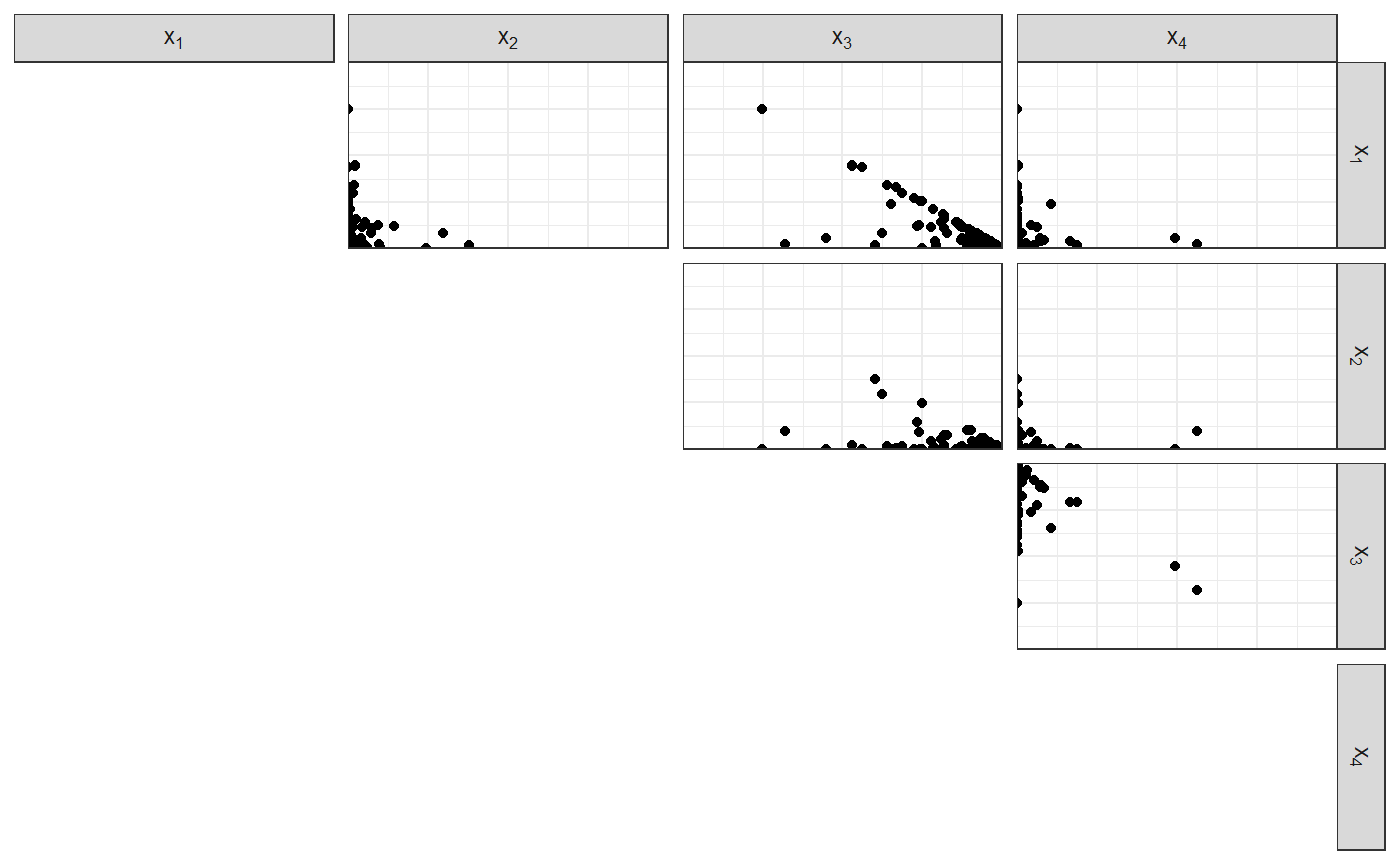
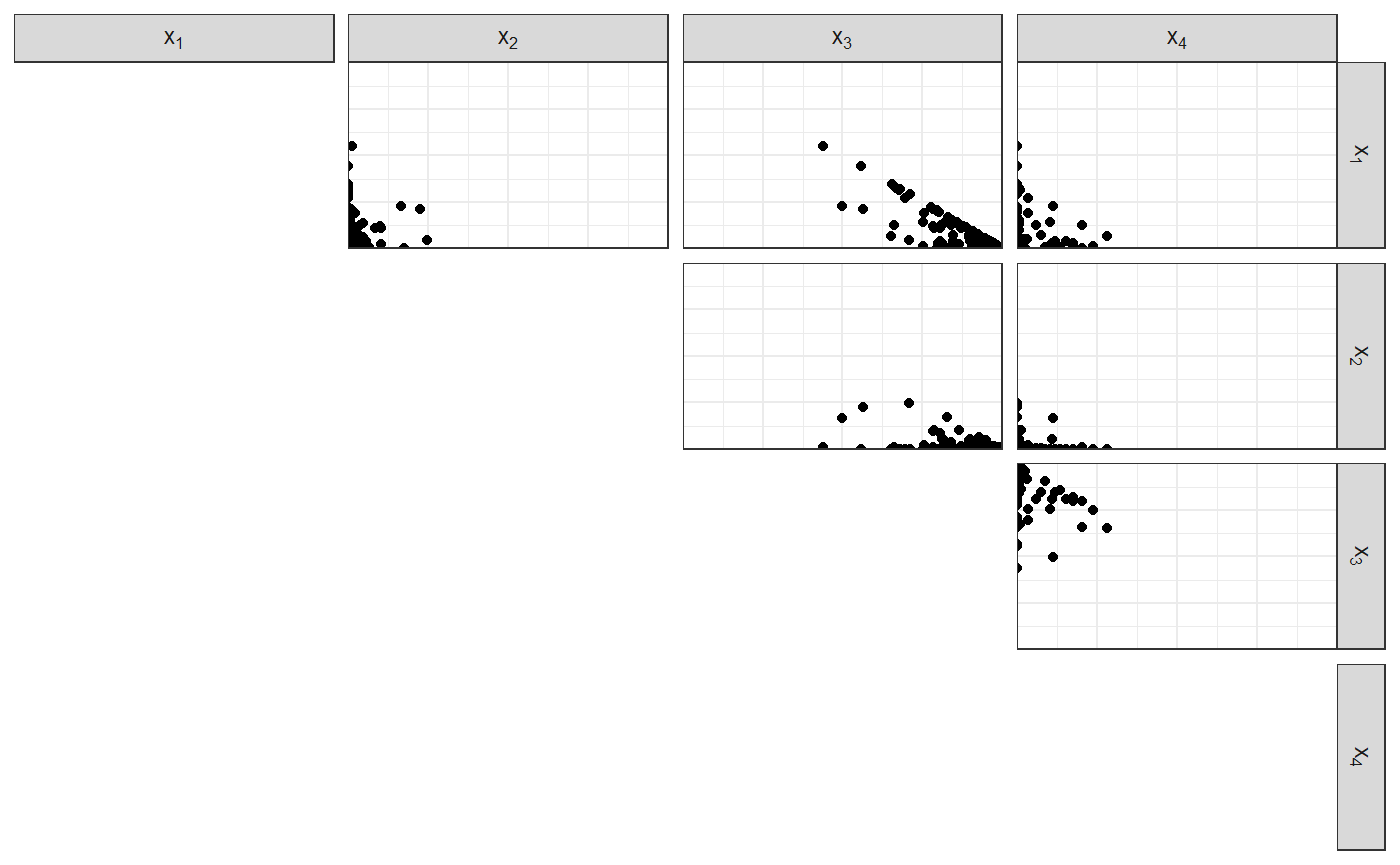
Renamed hyperparameters, fixed LaTeX errors, fixed CRAN checks

diff --git a/docs/articles/dirichletdirichlet-study.html b/docs/articles/dirichletdirichlet-study.html
@@ -137,24 +137,24 @@ This vignette describes the Dirichlet-Dirichlet model.</p>
 <p>Notice that the hyperparameter is sampled, too (but it can be fixed).</p>
 <div class="sourceCode" id="cb2"><pre class="sourceCode r"><code class="sourceCode r"><a class="sourceLine" id="cb2-1" title="1"><span class="kw"><a href="https://www.rdocumentation.org/packages/utils/topics/head">head</a></span>(list_pop<span class="op">$</span>df_pop)</a>
 <a class="sourceLine" id="cb2-2" title="2"><span class="co">#&gt; # A tibble: 6 x 5</span></a>
-<a class="sourceLine" id="cb2-3" title="3"><span class="co">#&gt;   source   `x[1]` `x[2]` `x[3]` `x[4]`</span></a>
-<a class="sourceLine" id="cb2-4" title="4"><span class="co">#&gt;    &lt;int&gt;    &lt;dbl&gt;  &lt;dbl&gt;  &lt;dbl&gt;  &lt;dbl&gt;</span></a>
-<a class="sourceLine" id="cb2-5" title="5"><span class="co">#&gt; 1      1 1.31e- 6      0      0  1.000</span></a>
-<a class="sourceLine" id="cb2-6" title="6"><span class="co">#&gt; 2      1 8.52e-63      0      0  1    </span></a>
-<a class="sourceLine" id="cb2-7" title="7"><span class="co">#&gt; 3      1 1.01e-12      0      0  1.000</span></a>
-<a class="sourceLine" id="cb2-8" title="8"><span class="co">#&gt; 4      1 3.33e- 9      0      0  1.000</span></a>
-<a class="sourceLine" id="cb2-9" title="9"><span class="co">#&gt; 5      1 5.07e-31      0      0  1    </span></a>
-<a class="sourceLine" id="cb2-10" title="10"><span class="co">#&gt; 6      1 3.87e- 7      0      0  1.000</span></a>
+<a class="sourceLine" id="cb2-3" title="3"><span class="co">#&gt;   source    `x[1]` `x[2]`        `x[3]` `x[4]`</span></a>
+<a class="sourceLine" id="cb2-4" title="4"><span class="co">#&gt;    &lt;int&gt;     &lt;dbl&gt;  &lt;dbl&gt;         &lt;dbl&gt;  &lt;dbl&gt;</span></a>
+<a class="sourceLine" id="cb2-5" title="5"><span class="co">#&gt; 1      1 0.538          0 0.000000561   0.462 </span></a>
+<a class="sourceLine" id="cb2-6" title="6"><span class="co">#&gt; 2      1 0.987          0 0.0000502     0.0128</span></a>
+<a class="sourceLine" id="cb2-7" title="7"><span class="co">#&gt; 3      1 0.779          0 0.00171       0.220 </span></a>
+<a class="sourceLine" id="cb2-8" title="8"><span class="co">#&gt; 4      1 0.910          0 0.00000000161 0.0895</span></a>
+<a class="sourceLine" id="cb2-9" title="9"><span class="co">#&gt; 5      1 0.926          0 0.00000552    0.0737</span></a>
+<a class="sourceLine" id="cb2-10" title="10"><span class="co">#&gt; 6      1 0.0000160      0 0.00000000138 1.000</span></a>
 <a class="sourceLine" id="cb2-11" title="11"><span class="kw"><a href="https://www.rdocumentation.org/packages/utils/topics/head">head</a></span>(list_pop<span class="op">$</span>df_sources)</a>
 <a class="sourceLine" id="cb2-12" title="12"><span class="co">#&gt; # A tibble: 6 x 5</span></a>
-<a class="sourceLine" id="cb2-13" title="13"><span class="co">#&gt;   source `theta[1]`  `theta[2]` `theta[3]` `theta[4]`</span></a>
-<a class="sourceLine" id="cb2-14" title="14"><span class="co">#&gt;    &lt;int&gt;      &lt;dbl&gt;       &lt;dbl&gt;      &lt;dbl&gt;      &lt;dbl&gt;</span></a>
-<a class="sourceLine" id="cb2-15" title="15"><span class="co">#&gt; 1      1     0.0203 0.000000318   4.49e- 5   0.980   </span></a>
-<a class="sourceLine" id="cb2-16" title="16"><span class="co">#&gt; 2      2     0.125  0.00000165    4.68e- 3   0.871   </span></a>
-<a class="sourceLine" id="cb2-17" title="17"><span class="co">#&gt; 3      3     0.235  0.764         3.48e-10   0.000765</span></a>
-<a class="sourceLine" id="cb2-18" title="18"><span class="co">#&gt; 4      4     0.0740 0.874         6.20e- 7   0.0517  </span></a>
-<a class="sourceLine" id="cb2-19" title="19"><span class="co">#&gt; 5      5     0.0446 0.0101        7.39e- 4   0.945   </span></a>
-<a class="sourceLine" id="cb2-20" title="20"><span class="co">#&gt; 6      6     0.163  0.00176       3.48e- 2   0.801</span></a></code></pre></div>
+<a class="sourceLine" id="cb2-13" title="13"><span class="co">#&gt;   source `theta[1]` `theta[2]` `theta[3]` `theta[4]`</span></a>
+<a class="sourceLine" id="cb2-14" title="14"><span class="co">#&gt;    &lt;int&gt;      &lt;dbl&gt;      &lt;dbl&gt;      &lt;dbl&gt;      &lt;dbl&gt;</span></a>
+<a class="sourceLine" id="cb2-15" title="15"><span class="co">#&gt; 1      1 0.508        1.65e- 5   1.03e- 1      0.389</span></a>
+<a class="sourceLine" id="cb2-16" title="16"><span class="co">#&gt; 2      2 0.00000394   6.36e- 6   5.45e-14      1.000</span></a>
+<a class="sourceLine" id="cb2-17" title="17"><span class="co">#&gt; 3      3 0.0000193    3.82e- 8   5.22e- 3      0.995</span></a>
+<a class="sourceLine" id="cb2-18" title="18"><span class="co">#&gt; 4      4 0.0000152    6.26e- 1   5.64e- 5      0.374</span></a>
+<a class="sourceLine" id="cb2-19" title="19"><span class="co">#&gt; 5      5 0.210        6.38e- 8   3.87e-15      0.790</span></a>
+<a class="sourceLine" id="cb2-20" title="20"><span class="co">#&gt; 6      6 0.0202       1.00e-15   8.84e- 9      0.980</span></a></code></pre></div>
 </div>
 <div id="hyperparameters" class="section level2">
 <h2 class="hasAnchor">
@@ -181,33 +181,33 @@ This is generically done using <code>make_dataset_splits</code>:</p>
 <a class="sourceLine" id="cb4-8" title="8"><span class="co">#&gt; [5] "df_questioned"  "df_background"</span></a></code></pre></div>
 <div class="sourceCode" id="cb5"><pre class="sourceCode r"><code class="sourceCode r"><a class="sourceLine" id="cb5-1" title="1"><span class="kw"><a href="https://www.rdocumentation.org/packages/utils/topics/head">head</a></span>(list_samples<span class="op">$</span>df_reference)</a>
 <a class="sourceLine" id="cb5-2" title="2"><span class="co">#&gt; # A tibble: 6 x 5</span></a>
-<a class="sourceLine" id="cb5-3" title="3"><span class="co">#&gt;   source `x[1]`    `x[2]`   `x[3]`  `x[4]`</span></a>
-<a class="sourceLine" id="cb5-4" title="4"><span class="co">#&gt;    &lt;int&gt;  &lt;dbl&gt;     &lt;dbl&gt;    &lt;dbl&gt;   &lt;dbl&gt;</span></a>
-<a class="sourceLine" id="cb5-5" title="5"><span class="co">#&gt; 1     11 0.0862 1.67e-106 3.80e-81 0.914  </span></a>
-<a class="sourceLine" id="cb5-6" title="6"><span class="co">#&gt; 2     11 0.856  7.23e- 84 0.       0.144  </span></a>
-<a class="sourceLine" id="cb5-7" title="7"><span class="co">#&gt; 3     11 0.856  4.70e-  2 0.       0.0966 </span></a>
-<a class="sourceLine" id="cb5-8" title="8"><span class="co">#&gt; 4     11 0.997  4.98e- 24 0.       0.00337</span></a>
-<a class="sourceLine" id="cb5-9" title="9"><span class="co">#&gt; 5     11 0.0205 1.67e- 48 0.       0.980  </span></a>
-<a class="sourceLine" id="cb5-10" title="10"><span class="co">#&gt; 6     11 0.965  9.06e- 20 0.       0.0348</span></a>
+<a class="sourceLine" id="cb5-3" title="3"><span class="co">#&gt;   source   `x[1]` `x[2]` `x[3]` `x[4]`</span></a>
+<a class="sourceLine" id="cb5-4" title="4"><span class="co">#&gt;    &lt;int&gt;    &lt;dbl&gt;  &lt;dbl&gt;  &lt;dbl&gt;  &lt;dbl&gt;</span></a>
+<a class="sourceLine" id="cb5-5" title="5"><span class="co">#&gt; 1     10 4.46e- 4      0      0  1.000</span></a>
+<a class="sourceLine" id="cb5-6" title="6"><span class="co">#&gt; 2     10 9.68e- 8      0      0  1.000</span></a>
+<a class="sourceLine" id="cb5-7" title="7"><span class="co">#&gt; 3     10 2.65e- 9      0      0  1.000</span></a>
+<a class="sourceLine" id="cb5-8" title="8"><span class="co">#&gt; 4     10 9.00e- 6      0      0  1.000</span></a>
+<a class="sourceLine" id="cb5-9" title="9"><span class="co">#&gt; 5     10 1.63e- 3      0      0  0.998</span></a>
+<a class="sourceLine" id="cb5-10" title="10"><span class="co">#&gt; 6     10 2.65e-20      0      0  1</span></a>
 <a class="sourceLine" id="cb5-11" title="11"><span class="kw"><a href="https://www.rdocumentation.org/packages/utils/topics/head">head</a></span>(list_samples<span class="op">$</span>df_questioned)</a>
 <a class="sourceLine" id="cb5-12" title="12"><span class="co">#&gt; # A tibble: 5 x 5</span></a>
-<a class="sourceLine" id="cb5-13" title="13"><span class="co">#&gt;   source   `x[1]` `x[2]`        `x[3]`     `x[4]`</span></a>
-<a class="sourceLine" id="cb5-14" title="14"><span class="co">#&gt;    &lt;int&gt;    &lt;dbl&gt;  &lt;dbl&gt;         &lt;dbl&gt;      &lt;dbl&gt;</span></a>
-<a class="sourceLine" id="cb5-15" title="15"><span class="co">#&gt; 1      1 3.87e- 7 0      0             1.000     </span></a>
-<a class="sourceLine" id="cb5-16" title="16"><span class="co">#&gt; 2      4 7.00e- 1 0.300  0             0.00000542</span></a>
-<a class="sourceLine" id="cb5-17" title="17"><span class="co">#&gt; 3     12 1.21e-96 0.0364 0.00000000103 0.964     </span></a>
-<a class="sourceLine" id="cb5-18" title="18"><span class="co">#&gt; 4     12 1.64e-14 0.0533 0.00000956    0.947     </span></a>
-<a class="sourceLine" id="cb5-19" title="19"><span class="co">#&gt; 5     16 1.90e- 1 0.300  0             0.510</span></a>
+<a class="sourceLine" id="cb5-13" title="13"><span class="co">#&gt;   source   `x[1]`    `x[2]`    `x[3]` `x[4]`</span></a>
+<a class="sourceLine" id="cb5-14" title="14"><span class="co">#&gt;    &lt;int&gt;    &lt;dbl&gt;     &lt;dbl&gt;     &lt;dbl&gt;  &lt;dbl&gt;</span></a>
+<a class="sourceLine" id="cb5-15" title="15"><span class="co">#&gt; 1      6 3.53e-29 0         0          1    </span></a>
+<a class="sourceLine" id="cb5-16" title="16"><span class="co">#&gt; 2      8 2.46e-51 0.0000290 0.00299    0.997</span></a>
+<a class="sourceLine" id="cb5-17" title="17"><span class="co">#&gt; 3      8 6.05e-11 0         0.0000218  1.000</span></a>
+<a class="sourceLine" id="cb5-18" title="18"><span class="co">#&gt; 4     16 5.20e- 1 0         0          0.480</span></a>
+<a class="sourceLine" id="cb5-19" title="19"><span class="co">#&gt; 5     17 1.24e-12 0         0.609      0.391</span></a>
 <a class="sourceLine" id="cb5-20" title="20"><span class="kw"><a href="https://www.rdocumentation.org/packages/utils/topics/head">head</a></span>(list_samples<span class="op">$</span>df_background)</a>
 <a class="sourceLine" id="cb5-21" title="21"><span class="co">#&gt; # A tibble: 6 x 5</span></a>
-<a class="sourceLine" id="cb5-22" title="22"><span class="co">#&gt;   source   `x[1]` `x[2]` `x[3]` `x[4]`</span></a>
-<a class="sourceLine" id="cb5-23" title="23"><span class="co">#&gt;    &lt;int&gt;    &lt;dbl&gt;  &lt;dbl&gt;  &lt;dbl&gt;  &lt;dbl&gt;</span></a>
-<a class="sourceLine" id="cb5-24" title="24"><span class="co">#&gt; 1      1 1.31e- 6      0      0  1.000</span></a>
-<a class="sourceLine" id="cb5-25" title="25"><span class="co">#&gt; 2      1 8.52e-63      0      0  1    </span></a>
-<a class="sourceLine" id="cb5-26" title="26"><span class="co">#&gt; 3      1 1.01e-12      0      0  1.000</span></a>
-<a class="sourceLine" id="cb5-27" title="27"><span class="co">#&gt; 4      1 3.33e- 9      0      0  1.000</span></a>
-<a class="sourceLine" id="cb5-28" title="28"><span class="co">#&gt; 5      1 5.07e-31      0      0  1    </span></a>
-<a class="sourceLine" id="cb5-29" title="29"><span class="co">#&gt; 6      1 3.24e-14      0      0  1.000</span></a></code></pre></div>
+<a class="sourceLine" id="cb5-22" title="22"><span class="co">#&gt;   source    `x[1]` `x[2]`        `x[3]` `x[4]`</span></a>
+<a class="sourceLine" id="cb5-23" title="23"><span class="co">#&gt;    &lt;int&gt;     &lt;dbl&gt;  &lt;dbl&gt;         &lt;dbl&gt;  &lt;dbl&gt;</span></a>
+<a class="sourceLine" id="cb5-24" title="24"><span class="co">#&gt; 1      1 0.538          0 0.000000561   0.462 </span></a>
+<a class="sourceLine" id="cb5-25" title="25"><span class="co">#&gt; 2      1 0.987          0 0.0000502     0.0128</span></a>
+<a class="sourceLine" id="cb5-26" title="26"><span class="co">#&gt; 3      1 0.779          0 0.00171       0.220 </span></a>
+<a class="sourceLine" id="cb5-27" title="27"><span class="co">#&gt; 4      1 0.910          0 0.00000000161 0.0895</span></a>
+<a class="sourceLine" id="cb5-28" title="28"><span class="co">#&gt; 5      1 0.926          0 0.00000552    0.0737</span></a>
+<a class="sourceLine" id="cb5-29" title="29"><span class="co">#&gt; 6      1 0.0000160      0 0.00000000138 1.000</span></a></code></pre></div>
 <div id="source-parameters" class="section level3">
 <h3 class="hasAnchor">
 <a href="#source-parameters" class="anchor"></a>Source parameters</h3>

diff --git a/docs/articles/dirichlet-distribution.html b/docs/articles/dirichlet-distribution.html
@@ -145,14 +145,14 @@ In other words, <span class="math inline">\(\boldsymbol{X} \in \text{Simplex}{(p
 <div class="sourceCode" id="cb2"><pre class="sourceCode r"><code class="sourceCode r"><a class="sourceLine" id="cb2-1" title="1">df_diri &lt;-<span class="st"> </span><span class="kw"><a href="../reference/fun_rdirichlet.html">fun_rdirichlet</a></span>(n, alpha)</a>
 <a class="sourceLine" id="cb2-2" title="2"><span class="kw"><a href="https://www.rdocumentation.org/packages/utils/topics/head">head</a></span>(df_diri)</a>
 <a class="sourceLine" id="cb2-3" title="3"><span class="co">#&gt; # A tibble: 6 x 4</span></a>
-<a class="sourceLine" id="cb2-4" title="4"><span class="co">#&gt;   `x[1]`   `x[2]` `x[3]`   `x[4]`</span></a>
-<a class="sourceLine" id="cb2-5" title="5"><span class="co">#&gt;    &lt;dbl&gt;    &lt;dbl&gt;  &lt;dbl&gt;    &lt;dbl&gt;</span></a>
-<a class="sourceLine" id="cb2-6" title="6"><span class="co">#&gt; 1 0.0537 5.64e- 4  0.945 8.39e- 4</span></a>
-<a class="sourceLine" id="cb2-7" title="7"><span class="co">#&gt; 2 0.0195 6.21e- 3  0.974 1.39e-13</span></a>
-<a class="sourceLine" id="cb2-8" title="8"><span class="co">#&gt; 3 0.0546 8.86e- 7  0.945 8.17e- 6</span></a>
-<a class="sourceLine" id="cb2-9" title="9"><span class="co">#&gt; 4 0.0146 5.88e-12  0.985 2.98e- 8</span></a>
-<a class="sourceLine" id="cb2-10" title="10"><span class="co">#&gt; 5 0.0367 1.60e- 8  0.963 9.94e- 5</span></a>
-<a class="sourceLine" id="cb2-11" title="11"><span class="co">#&gt; 6 0.751  1.06e- 8  0.248 4.87e- 4</span></a></code></pre></div>
+<a class="sourceLine" id="cb2-4" title="4"><span class="co">#&gt;    `x[1]`   `x[2]` `x[3]`       `x[4]`</span></a>
+<a class="sourceLine" id="cb2-5" title="5"><span class="co">#&gt;     &lt;dbl&gt;    &lt;dbl&gt;  &lt;dbl&gt;        &lt;dbl&gt;</span></a>
+<a class="sourceLine" id="cb2-6" title="6"><span class="co">#&gt; 1 0.100   4.24e- 8  0.895 0.00523     </span></a>
+<a class="sourceLine" id="cb2-7" title="7"><span class="co">#&gt; 2 0.205   1.78e- 5  0.795 0.000000145 </span></a>
+<a class="sourceLine" id="cb2-8" title="8"><span class="co">#&gt; 3 0.00244 5.34e- 3  0.992 0.0000000796</span></a>
+<a class="sourceLine" id="cb2-9" title="9"><span class="co">#&gt; 4 0.0396  7.19e- 5  0.960 0.0000170   </span></a>
+<a class="sourceLine" id="cb2-10" title="10"><span class="co">#&gt; 5 0.0259  4.87e- 8  0.974 0.0000401   </span></a>
+<a class="sourceLine" id="cb2-11" title="11"><span class="co">#&gt; 6 0.344   4.10e-13  0.656 0.0000879</span></a></code></pre></div>
 <pre><code>#&gt; Loading required namespace: GGally</code></pre>
 <p><img src="dirichlet-distribution_files/figure-html/sym-sens-plot-comp-1.png" width="700"></p>
 <div id="uniform-sampling" class="section level3">
@@ -166,14 +166,14 @@ In other words, <span class="math inline">\(\boldsymbol{X} \in \text{Simplex}{(p
 <div class="sourceCode" id="cb5"><pre class="sourceCode r"><code class="sourceCode r"><a class="sourceLine" id="cb5-1" title="1">df_diri &lt;-<span class="st"> </span><span class="kw"><a href="../reference/fun_rdirichlet.html">fun_rdirichlet</a></span>(n, alpha)</a>
 <a class="sourceLine" id="cb5-2" title="2"><span class="kw"><a href="https://www.rdocumentation.org/packages/utils/topics/head">head</a></span>(df_diri)</a>
 <a class="sourceLine" id="cb5-3" title="3"><span class="co">#&gt; # A tibble: 6 x 4</span></a>
-<a class="sourceLine" id="cb5-4" title="4"><span class="co">#&gt;   `x[1]` `x[2]`  `x[3]`  `x[4]`</span></a>
-<a class="sourceLine" id="cb5-5" title="5"><span class="co">#&gt;    &lt;dbl&gt;  &lt;dbl&gt;   &lt;dbl&gt;   &lt;dbl&gt;</span></a>
-<a class="sourceLine" id="cb5-6" title="6"><span class="co">#&gt; 1 0.194  0.305  0.379   0.123  </span></a>
-<a class="sourceLine" id="cb5-7" title="7"><span class="co">#&gt; 2 0.0610 0.234  0.671   0.0338 </span></a>
-<a class="sourceLine" id="cb5-8" title="8"><span class="co">#&gt; 3 0.0965 0.355  0.118   0.431  </span></a>
-<a class="sourceLine" id="cb5-9" title="9"><span class="co">#&gt; 4 0.0192 0.440  0.0778  0.463  </span></a>
-<a class="sourceLine" id="cb5-10" title="10"><span class="co">#&gt; 5 0.884  0.0357 0.00313 0.0767 </span></a>
-<a class="sourceLine" id="cb5-11" title="11"><span class="co">#&gt; 6 0.509  0.0535 0.432   0.00619</span></a></code></pre></div>
+<a class="sourceLine" id="cb5-4" title="4"><span class="co">#&gt;   `x[1]` `x[2]`  `x[3]` `x[4]`</span></a>
+<a class="sourceLine" id="cb5-5" title="5"><span class="co">#&gt;    &lt;dbl&gt;  &lt;dbl&gt;   &lt;dbl&gt;  &lt;dbl&gt;</span></a>
+<a class="sourceLine" id="cb5-6" title="6"><span class="co">#&gt; 1 0.767  0.0883 0.0961  0.0490</span></a>
+<a class="sourceLine" id="cb5-7" title="7"><span class="co">#&gt; 2 0.240  0.445  0.00186 0.313 </span></a>
+<a class="sourceLine" id="cb5-8" title="8"><span class="co">#&gt; 3 0.501  0.0492 0.0596  0.390 </span></a>
+<a class="sourceLine" id="cb5-9" title="9"><span class="co">#&gt; 4 0.0255 0.749  0.0365  0.189 </span></a>
+<a class="sourceLine" id="cb5-10" title="10"><span class="co">#&gt; 5 0.200  0.0391 0.00906 0.752 </span></a>
+<a class="sourceLine" id="cb5-11" title="11"><span class="co">#&gt; 6 0.751  0.0842 0.116   0.0489</span></a></code></pre></div>
 <div class="sourceCode" id="cb6"><pre class="sourceCode r"><code class="sourceCode r"><a class="sourceLine" id="cb6-1" title="1"><span class="kw">scatter_matrix_simplex</span>(df_diri)</a></code></pre></div>
 <p><img src="dirichlet-distribution_files/figure-html/unnamed-chunk-5-1.png" width="700"></p>
 </div>
@@ -190,12 +190,12 @@ In other words, <span class="math inline">\(\boldsymbol{X} \in \text{Simplex}{(p
 <a class="sourceLine" id="cb8-3" title="3"><span class="co">#&gt; # A tibble: 6 x 4</span></a>
 <a class="sourceLine" id="cb8-4" title="4"><span class="co">#&gt;   `x[1]` `x[2]` `x[3]` `x[4]`</span></a>
 <a class="sourceLine" id="cb8-5" title="5"><span class="co">#&gt;    &lt;dbl&gt;  &lt;dbl&gt;  &lt;dbl&gt;  &lt;dbl&gt;</span></a>
-<a class="sourceLine" id="cb8-6" title="6"><span class="co">#&gt; 1  0.281  0.190  0.337  0.192</span></a>
-<a class="sourceLine" id="cb8-7" title="7"><span class="co">#&gt; 2  0.271  0.215  0.281  0.233</span></a>
-<a class="sourceLine" id="cb8-8" title="8"><span class="co">#&gt; 3  0.192  0.256  0.170  0.381</span></a>
-<a class="sourceLine" id="cb8-9" title="9"><span class="co">#&gt; 4  0.216  0.242  0.249  0.292</span></a>
-<a class="sourceLine" id="cb8-10" title="10"><span class="co">#&gt; 5  0.261  0.200  0.264  0.275</span></a>
-<a class="sourceLine" id="cb8-11" title="11"><span class="co">#&gt; 6  0.241  0.230  0.263  0.265</span></a></code></pre></div>
+<a class="sourceLine" id="cb8-6" title="6"><span class="co">#&gt; 1  0.168  0.343  0.284  0.206</span></a>
+<a class="sourceLine" id="cb8-7" title="7"><span class="co">#&gt; 2  0.271  0.271  0.261  0.198</span></a>
+<a class="sourceLine" id="cb8-8" title="8"><span class="co">#&gt; 3  0.195  0.259  0.214  0.332</span></a>
+<a class="sourceLine" id="cb8-9" title="9"><span class="co">#&gt; 4  0.296  0.216  0.182  0.306</span></a>
+<a class="sourceLine" id="cb8-10" title="10"><span class="co">#&gt; 5  0.269  0.279  0.179  0.273</span></a>
+<a class="sourceLine" id="cb8-11" title="11"><span class="co">#&gt; 6  0.211  0.230  0.262  0.298</span></a></code></pre></div>
 <div class="sourceCode" id="cb9"><pre class="sourceCode r"><code class="sourceCode r"><a class="sourceLine" id="cb9-1" title="1"><span class="kw">scatter_matrix_simplex</span>(df_diri)</a></code></pre></div>
 <p><img src="dirichlet-distribution_files/figure-html/unnamed-chunk-8-1.png" width="700"></p>
 </div>
@@ -210,14 +210,14 @@ In other words, <span class="math inline">\(\boldsymbol{X} \in \text{Simplex}{(p
 <div class="sourceCode" id="cb11"><pre class="sourceCode r"><code class="sourceCode r"><a class="sourceLine" id="cb11-1" title="1">df_diri &lt;-<span class="st"> </span><span class="kw"><a href="../reference/fun_rdirichlet.html">fun_rdirichlet</a></span>(n, alpha)</a>
 <a class="sourceLine" id="cb11-2" title="2"><span class="kw"><a href="https://www.rdocumentation.org/packages/utils/topics/head">head</a></span>(df_diri)</a>
 <a class="sourceLine" id="cb11-3" title="3"><span class="co">#&gt; # A tibble: 6 x 4</span></a>
-<a class="sourceLine" id="cb11-4" title="4"><span class="co">#&gt;       `x[1]`     `x[2]`    `x[3]`   `x[4]`</span></a>
-<a class="sourceLine" id="cb11-5" title="5"><span class="co">#&gt;        &lt;dbl&gt;      &lt;dbl&gt;     &lt;dbl&gt;    &lt;dbl&gt;</span></a>
-<a class="sourceLine" id="cb11-6" title="6"><span class="co">#&gt; 1  1.25e-154 10.00e-  1 5.14e- 12 3.40e-68</span></a>
-<a class="sourceLine" id="cb11-7" title="7"><span class="co">#&gt; 2  4.33e- 39  6.16e- 22 8.59e- 21 1.00e+ 0</span></a>
-<a class="sourceLine" id="cb11-8" title="8"><span class="co">#&gt; 3 10.00e-  1  7.17e- 62 7.10e-168 4.78e- 8</span></a>
-<a class="sourceLine" id="cb11-9" title="9"><span class="co">#&gt; 4  1.07e- 69 10.00e-  1 0.        2.61e-15</span></a>
-<a class="sourceLine" id="cb11-10" title="10"><span class="co">#&gt; 5  7.99e-169  1.00e+  0 1.10e- 17 2.72e-28</span></a>
-<a class="sourceLine" id="cb11-11" title="11"><span class="co">#&gt; 6  1.00e+  0  5.30e-114 3.40e- 25 2.23e-27</span></a></code></pre></div>
+<a class="sourceLine" id="cb11-4" title="4"><span class="co">#&gt;      `x[1]`    `x[2]`    `x[3]`    `x[4]`</span></a>
+<a class="sourceLine" id="cb11-5" title="5"><span class="co">#&gt;       &lt;dbl&gt;     &lt;dbl&gt;     &lt;dbl&gt;     &lt;dbl&gt;</span></a>
+<a class="sourceLine" id="cb11-6" title="6"><span class="co">#&gt; 1 3.46e- 23 1.14e-264 3.69e-182  1.00e+ 0</span></a>
+<a class="sourceLine" id="cb11-7" title="7"><span class="co">#&gt; 2 2.93e- 11 2.49e- 54 1.10e- 18 10.00e- 1</span></a>
+<a class="sourceLine" id="cb11-8" title="8"><span class="co">#&gt; 3 6.54e- 70 1.58e- 61 2.25e-116  1.00e+ 0</span></a>
+<a class="sourceLine" id="cb11-9" title="9"><span class="co">#&gt; 4 1.00e+  0 0.        0.         2.60e-60</span></a>
+<a class="sourceLine" id="cb11-10" title="10"><span class="co">#&gt; 5 1.00e+  0 0.        0.         3.63e-42</span></a>
+<a class="sourceLine" id="cb11-11" title="11"><span class="co">#&gt; 6 2.21e-126 2.75e- 16 9.86e-  1  1.42e- 2</span></a></code></pre></div>
 <div class="sourceCode" id="cb12"><pre class="sourceCode r"><code class="sourceCode r"><a class="sourceLine" id="cb12-1" title="1"><span class="kw">scatter_matrix_simplex</span>(df_diri)</a></code></pre></div>
 <p><img src="dirichlet-distribution_files/figure-html/unnamed-chunk-11-1.png" width="700"></p>
 </div>

diff --git a/docs/reference/fun_rnorm_population.html b/docs/reference/fun_rnorm_population.html
@@ -144,8 +144,8 @@ Optionally pass the between-source hyperparameters used to generate the source p
     <tr>
       <th>list_hyper</th>
       <td><p>a list containing the hyperparameters:</p><ul>
-<li><p>'mu_mu0', 'mu_sigma0': the between-source mean hyperparameters</p></li>
-<li><p>'sigma_mu0', 'sigma_sigma0': the between-source sd hyperparameters
+<li><p>'m_mu', 'm_sigma': the between-source mean hyperparameters</p></li>
+<li><p>'s_mu', 's_sigma': the between-source sd hyperparameters
 A partial list will be merged.
 If <code>NULL</code>, they are generated from the N(0,1) distribution.</p></li>
 </ul></td>
@@ -176,8 +176,8 @@ If <code>NULL</code>, they are generated from the N(0,1) distribution.</p></li>
     
     <p>The Normal-Normal model:</p>
 <p>$$X_{ij} ~ N(\mu_i, \sigma_i^2)  i = 1, \ldots, n, j = 1, \ldots, m$$
-$$\mu_i ~ N(\mu^{\mu}_0, \sigma^{\mu}_0^2) j = 1, \ldots, m$$
-$$\sigma_i ~ N(\mu^{\sigma}_0, \sigma^{\sigma}_0^2) j = 1, \ldots, m$$</p>
+$$\mu_i ~ N(m_{\mu}, s_{\mu}^2)   j = 1, \ldots, m$$
+$$\sigma_i ~ N(m_{\sigma}, s_{\sigma}^2)    j = 1, \ldots, m$$</p>
     
     <h2 class="hasAnchor" id="see-also"><a class="anchor" href="#see-also"></a>See also</h2>
 
